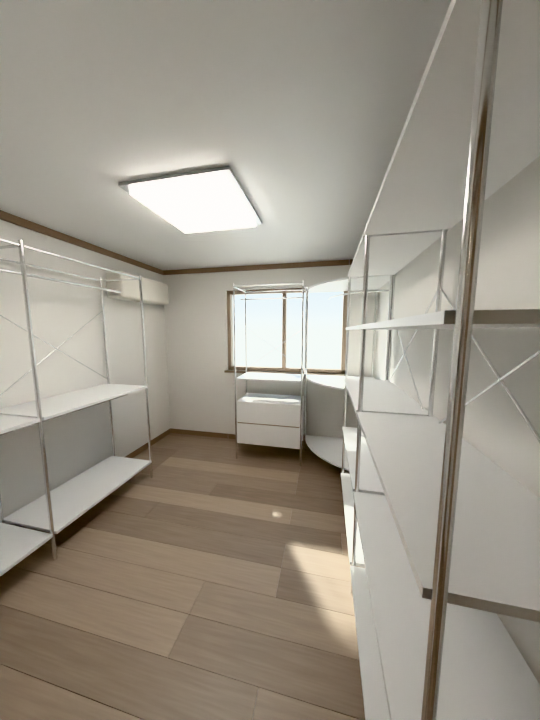
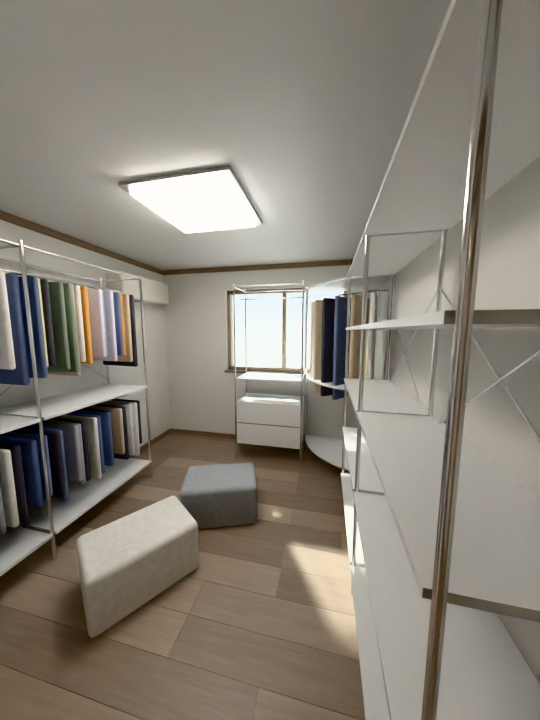
Clothes on the dressing racks, stand TV in the master bedroom
Claude-Session: https://claude.ai/code/session_011EH9rtECRf1k1R2CoNo47H

diff --git a/blueprint/floor2/house.py b/blueprint/floor2/house.py
@@ -234,6 +234,9 @@ def materials():
     mat("downlight", (1.0, 0.9, 0.8), 0.5, emit=40.0, ecol=(1.0, 0.82, 0.62))
     mat("screen", (0.01, 0.01, 0.012), 0.08)
     mat("books", (0.5, 0.3, 0.22), 0.7, kind="tile")
+    for i, c in enumerate(((0.92, 0.9, 0.85), (0.9, 0.62, 0.66), (0.93, 0.86, 0.5), (0.1, 0.1, 0.12), (0.45, 0.47, 0.5), (0.85, 0.45, 0.15),
+                           (0.3, 0.36, 0.28), (0.72, 0.6, 0.45), (0.2, 0.25, 0.4), (0.8, 0.78, 0.9))):
+        mat(f"cloth{i}", c, 0.95, kind="fabric")
     mat("paper", kind="image", rough=0.9, reveal=False)
     mat("desk", (0.16, 0.13, 0.11), 0.5, kind="wood", scale=0.3, reveal=False)
 
@@ -562,6 +565,28 @@ def rack(x0, x1, y0, y1, bays, tag, kind="hang"):
         rod(f"rack_brace_{tag}", (wall_x, a1, 1.05), (wall_x, a0, 1.75), 0.004, "chrome", verts=6)
 
 
+def clothes(x, y0, y1, z, long=0.7, short=0.5, pal=range(10)):
+    """garments on a rail that runs along y at height z: one thin soft slab each, on its hanger"""
+    y = y0 + 0.05
+    pal = list(pal)
+    while y < y1 - 0.04:
+        h = random.uniform(short, long)
+        w = random.uniform(0.38, 0.46)
+        box("garment", x - w / 2, x + w / 2, y - 0.017, y + 0.017, z - 0.04 - h, z - 0.04, f"cloth{random.choice(pal)}", 0.014, 3,
+            rot=((x, y), random.uniform(-7, 7)), stage="decor")
+        y += random.uniform(0.045, 0.075)
+
+
+def tv_stand(x, y, yaw):
+    """the white floor-stand TV from the dressing-room photo: round base, pole, screen"""
+    r = ((x, y), yaw)
+    cyl("tvstand_base", x, y, 0.3, 0.0, 0.025, "white", verts=40)
+    cyl("tvstand_pole", x, y, 0.035, 0.025, 1.25, "white", verts=16)
+    box("tvstand_mount", x - 0.1, x + 0.1, y - 0.06, y - 0.035, 1.0, 1.25, "silver", rot=r)
+    box("tvstand_back", x - 0.62, x + 0.62, y - 0.085, y - 0.06, 0.78, 1.5, "white", 0.006, rot=r)
+    box("tvstand_screen", x - 0.61, x + 0.61, y - 0.09, y - 0.085, 0.79, 1.49, "screen", rot=r)
+
+
 def corner_shelf(cx, cy, r, z, m="white", sx=1):
     """a quarter-round shelf in the south-east corner (the curved unit in the photo)"""
     bm = bmesh.new()
@@ -660,6 +685,7 @@ def furnish():
     # ---- master bedroom
     S[0] = "furniture"
     master_bed()
+    tv_stand(1.85, 4.05, 0)       # the stand TV from the dressing-room photo, facing the bed
     # ---- dressing room (the chrome system hangers in the photo)
     S[0] = "builtin"
     # seen from the door looking south, as in the photo: hanging bays on the left (east) wall with the wall
@@ -685,6 +711,17 @@ def furnish():
         rod("rack_corner_rail", (3.68 + 0.55 * math.cos(a0), 0.2 + 0.55 * math.sin(a0), 1.93), (3.68 + 0.55 * math.cos(a1), 0.2 + 0.55 * math.sin(a1), 1.93), 0.01, "chrome", verts=8)
     cyl("rack_post_c", 3.7, 0.22, 0.011, 0, 2.08, "chrome", verts=8)
     cyl("rack_post_c", 4.48, 0.22, 0.011, 0, 2.08, "chrome", verts=8); cyl("rack_post_c", 3.7, 1.0, 0.011, 0, 2.08, "chrome", verts=8)
+    S[0] = "decor"
+    clothes(6.25, 1.22, 3.13, 1.93, 0.72, 0.55)                       # left bays, upper rail: shirts and knits
+    clothes(6.25, 1.22, 3.13, 0.9, 0.55, 0.42, pal=(0, 3, 4, 7, 8))    # lower rail: trousers
+    clothes(4.89, 0.3, 0.3, 1.93)                                     # (nothing on the window unit)
+    for i in range(6):                                                # coats on the corner rail
+        a = math.radians(12 + 13 * i)
+        px, py = 3.68 + 0.55 * math.cos(a), 0.2 + 0.55 * math.sin(a)
+        box("coat", px - 0.22, px + 0.22, py - 0.02, py + 0.02, 0.85, 1.89, f"cloth{(0, 7, 3, 8, 7, 0)[i]}", 0.016, 3,
+            rot=((px, py), math.degrees(a)))
+    for k, (bx, by, m) in enumerate(((5.1, 1.5, "cloth4"), (5.35, 2.15, "cloth0"))):   # the fabric storage boxes
+        box("storage_box", bx - 0.3, bx + 0.3, by - 0.2, by + 0.2, 0, 0.33, m, 0.03, 3, rot=((bx, by), 20 + 35 * k))
     S[0] = "lights"
     box("dressing_light", 4.8, 5.4, 1.4, 2.0, H - 0.05, H - 0.002, "panel", col="ceiling")
     box("dressing_light_frame", 4.76, 5.44, 1.36, 2.04, H - 0.02, H - 0.001, "silver", col="ceiling")

diff --git a/blueprint/floor2/build.py b/blueprint/floor2/build.py
@@ -16,6 +16,7 @@ SH = {  # loc, target, lens, ceiling on?
     "living": ((7.75, 5.75, 1.62), (8.9, 0.9, 0.62), 17, True),
     "kitchen": ((7.5, 1.7, 1.45), (8.9, 5.9, 0.95), 18, True),
     "master": ((3.3, 4.15, 1.5), (1.5, 0.5, 0.75), 17, True),
+    "master_tv": ((0.5, 0.75, 1.5), (2.3, 4.2, 0.9), 17, True),
     "dressing": ((4.25, 3.36, 1.55), (5.0, 0.0, 1.15), 12.5, True),
 }
 for n in shots:
